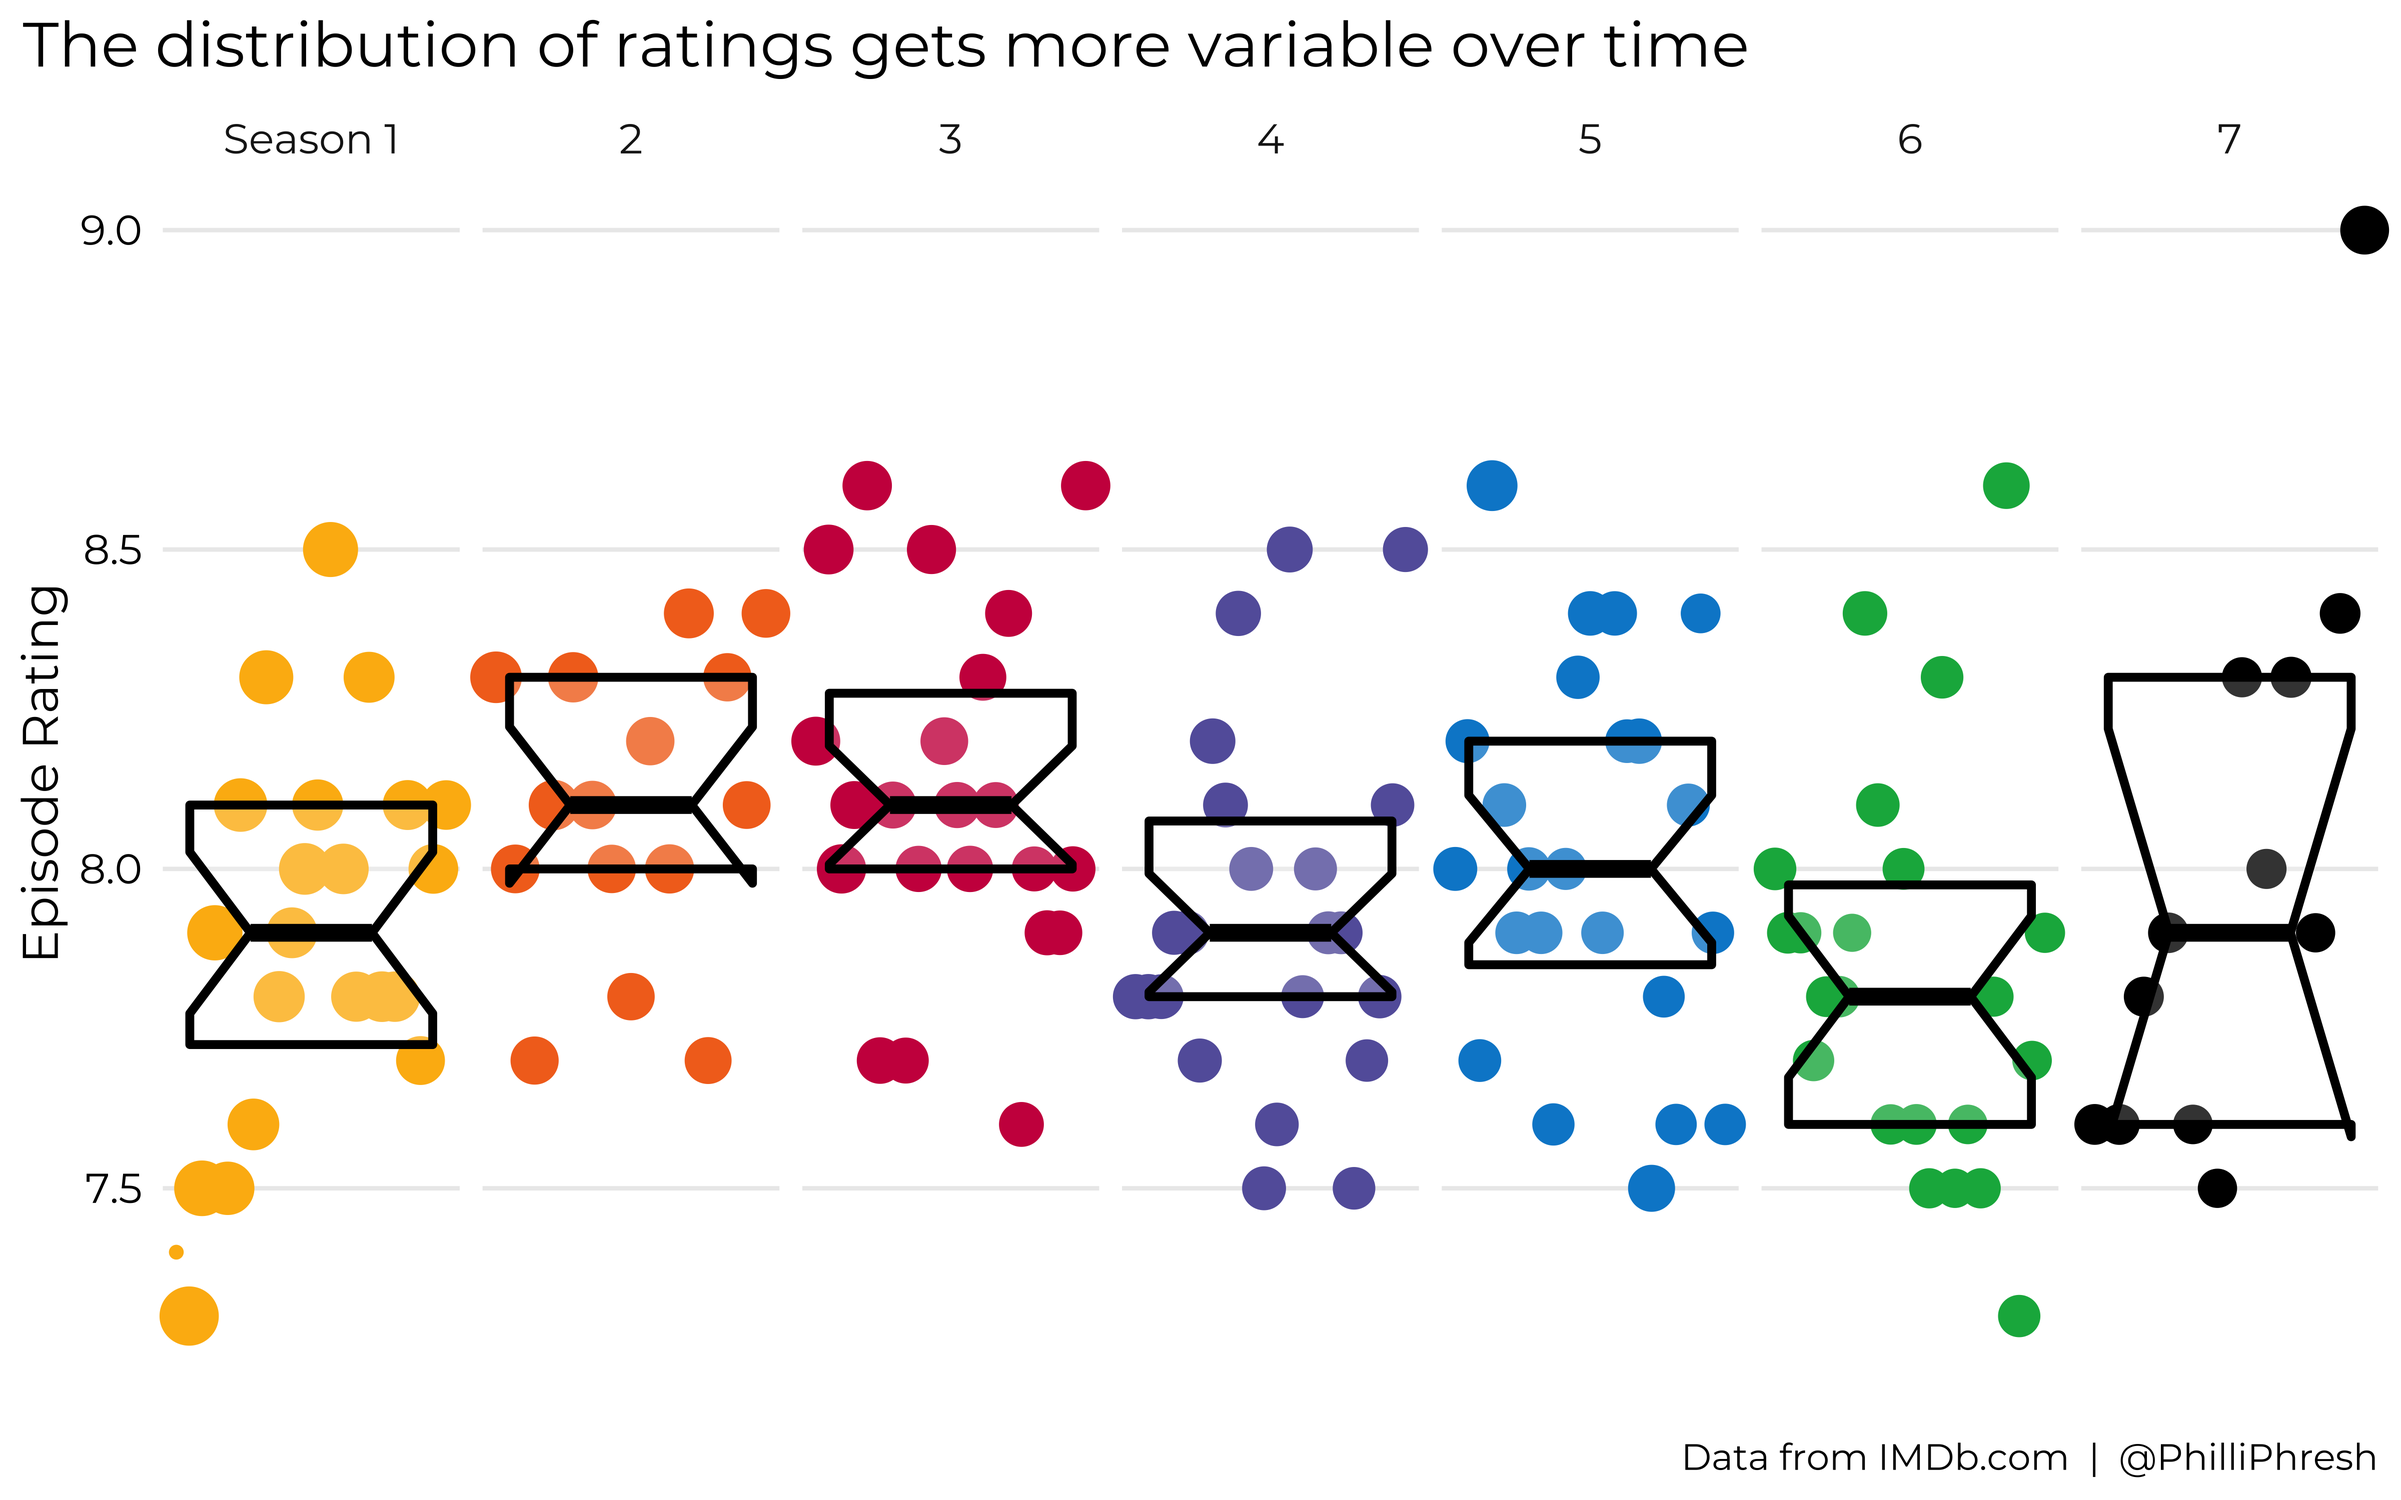
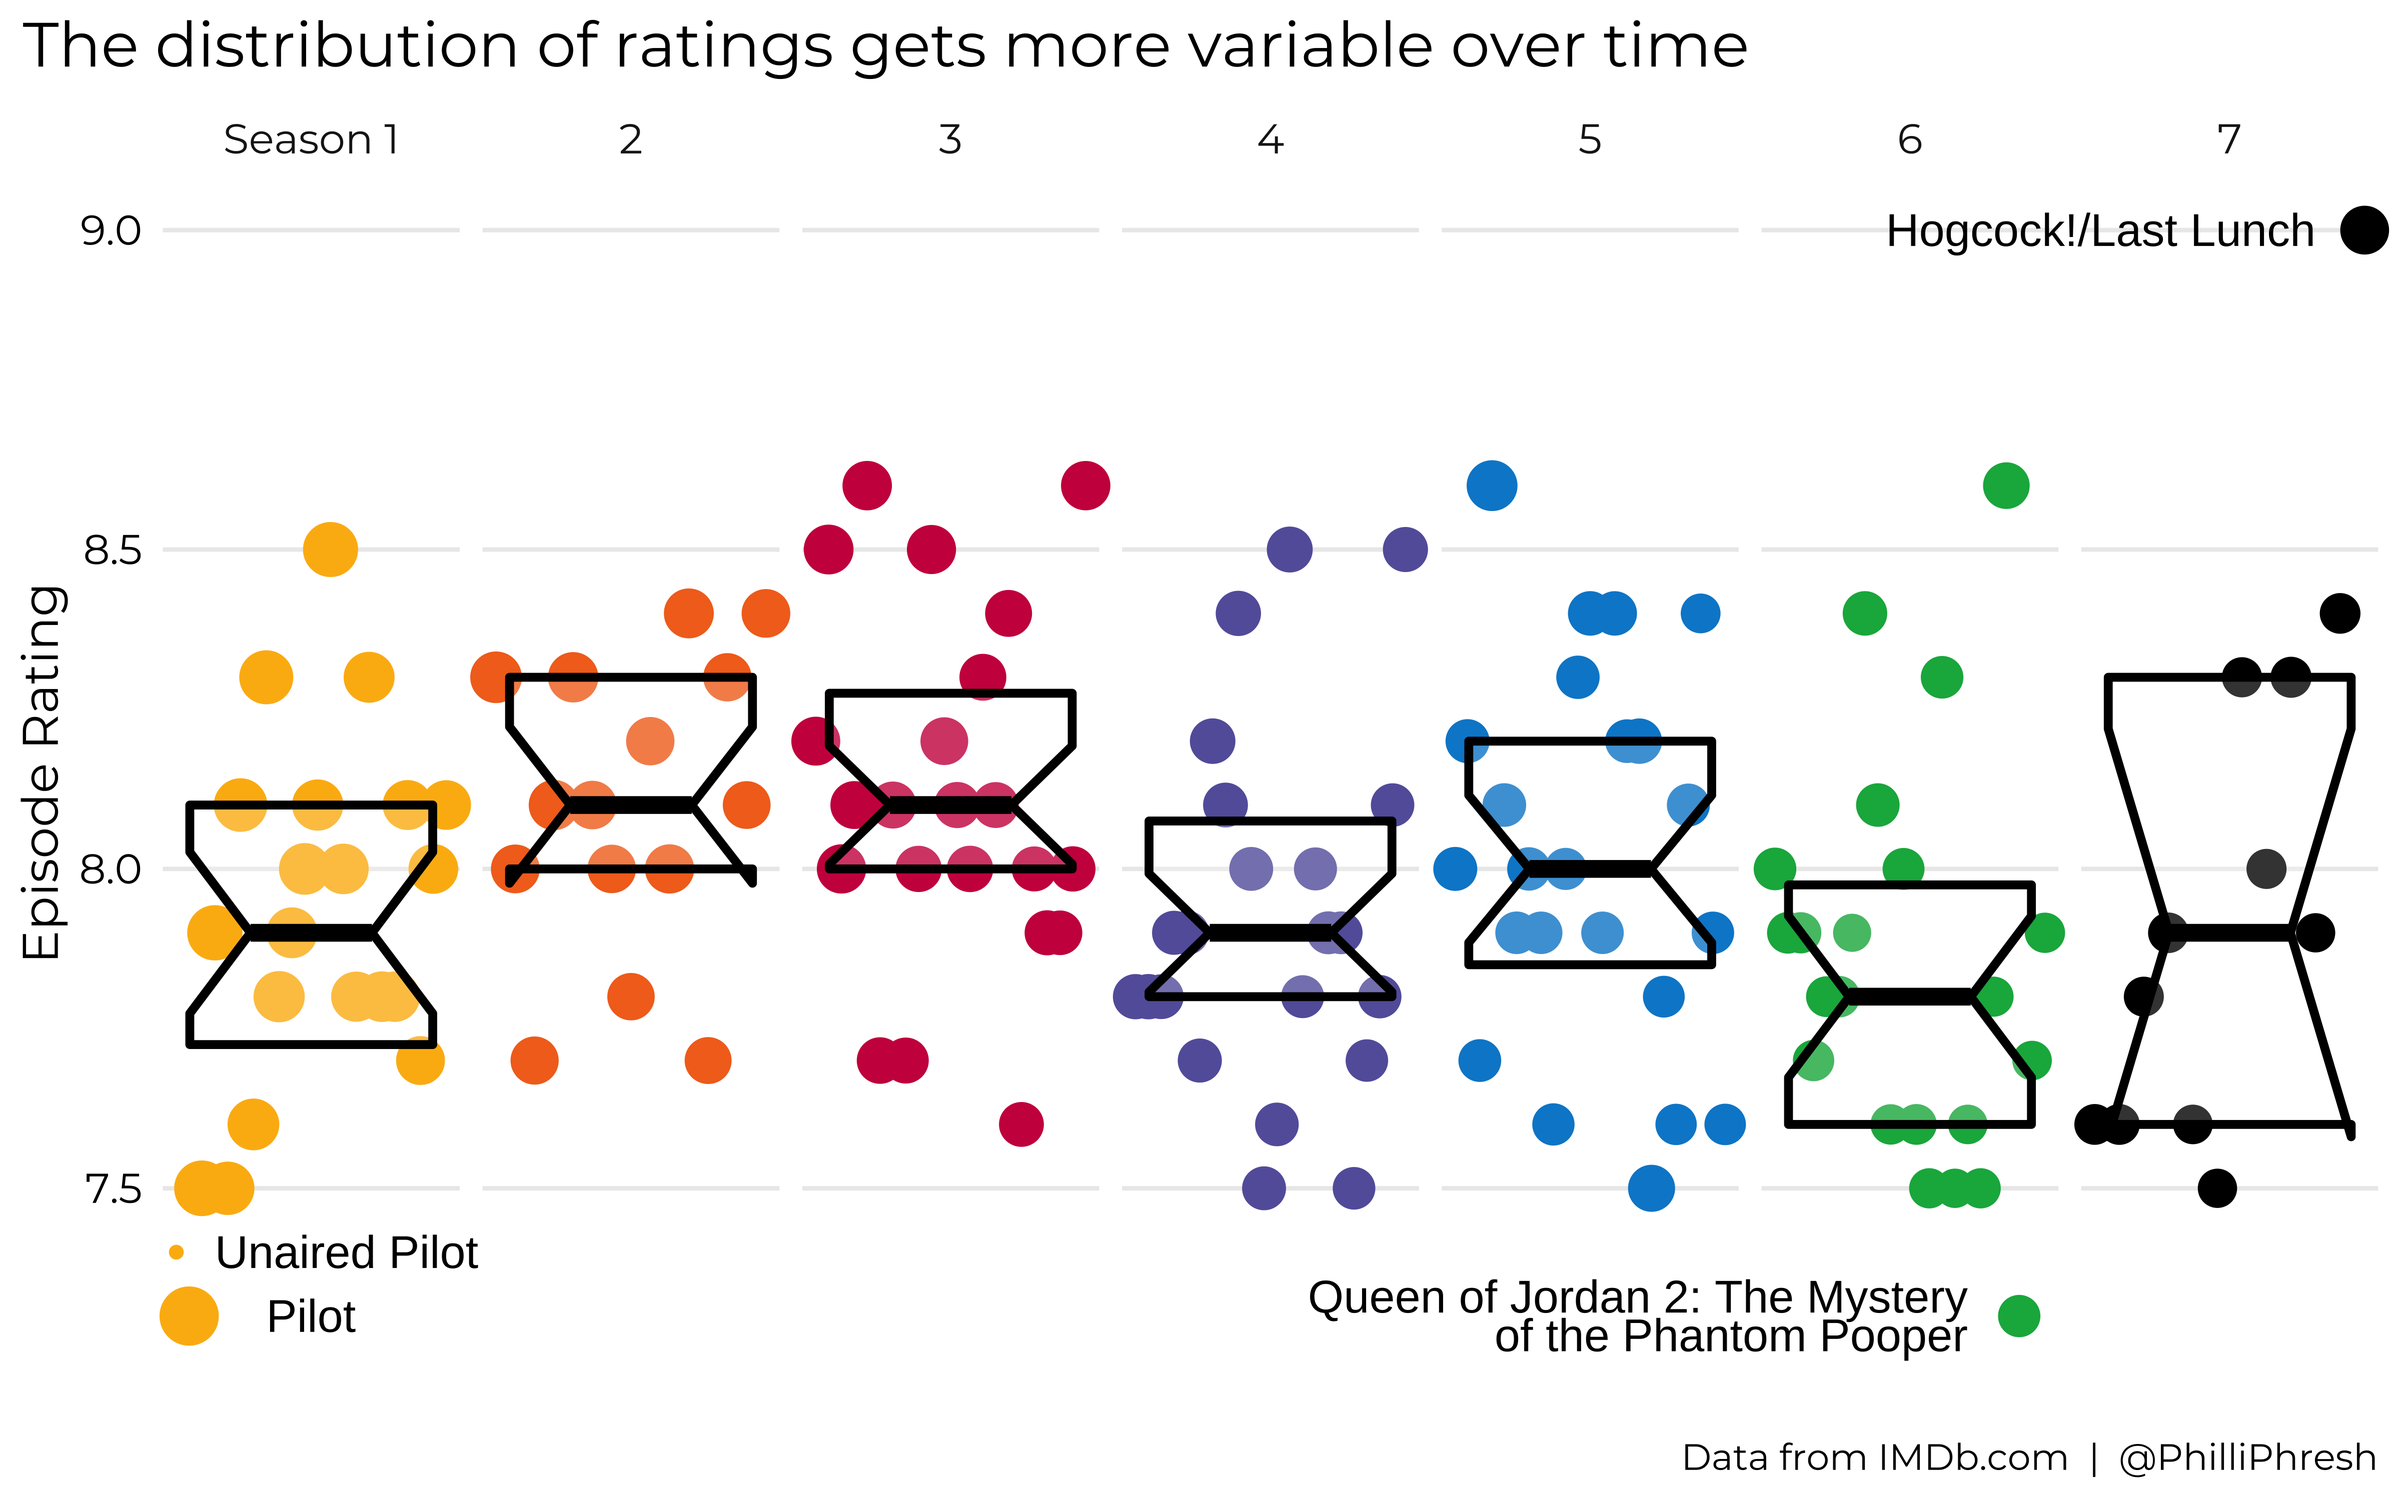
Annotating plots and adding narrative descriptions.

Changed region(s): [[0.5625, 0.837, 0.8125, 0.899], [0.7812, 0.124, 0.9062, 0.186], [0.0938, 0.806, 0.1875, 0.899]]

diff --git a/README.md b/README.md
@@ -2,13 +2,40 @@ Analyzing 30 Rock Data
 ================
 Phillip Sanderell
 
-# Import data
+“Science is my most favorite subject, especially the Old Testament.”
+Continuing my one-show streak of analyzing data for my favorite
+television shows, I have chosen to explore Tina Fey’s *30 Rock*. In this
+post I look forward to learning about what it takes to make a truly
+fantastic show, and perhaps impress my friends from The Second City.
 
-# Exploring distributions of variables
+# Exploring episode metadata
 
 ## IMDb rating
 
+IMDb ratings tend to be my go-to metric for scoring episodes, and
+something that I find particularly interesting. I suppose I assume that
+episodes with higher IMDb ratings had higher Neilsen ratings or
+generated more audience for the show. The plot below shows the
+distribution of IMDb ratings for every regular-season episode of the
+show.
+
 ![](README_files/figure-gfm/unnamed-chunk-2-1.png)<!-- -->
+
+The ratings do seem to have an approximately normal distribution
+centered at eight stars. Something worth noting is that while IMDb
+ratings range from 0 to 10, I find episode ratings for various shows
+hover around 8 starts–perhaps there is some psychological reason for
+that, but unfortunately we have no way of knowing, medicine is not a
+science.
+
+The plot above is useful for examining episode ratings overall, but it
+is easy to tell if certain seasons rate better than others. The next
+plot was made in an effort to make this more clear. Each dot represents
+an episode going in order of air date from left to right, colored by
+season, and sized by number of IMDb votes. The “notched” box plots show
+the 25th, 50th, and 75th percentiles of ratings for each season–if the
+notches in different season’s boxes don’t overlap, it suggests the
+medians are significantly different.
 
 ![](README_files/figure-gfm/unnamed-chunk-3-1.png)<!-- -->
 
